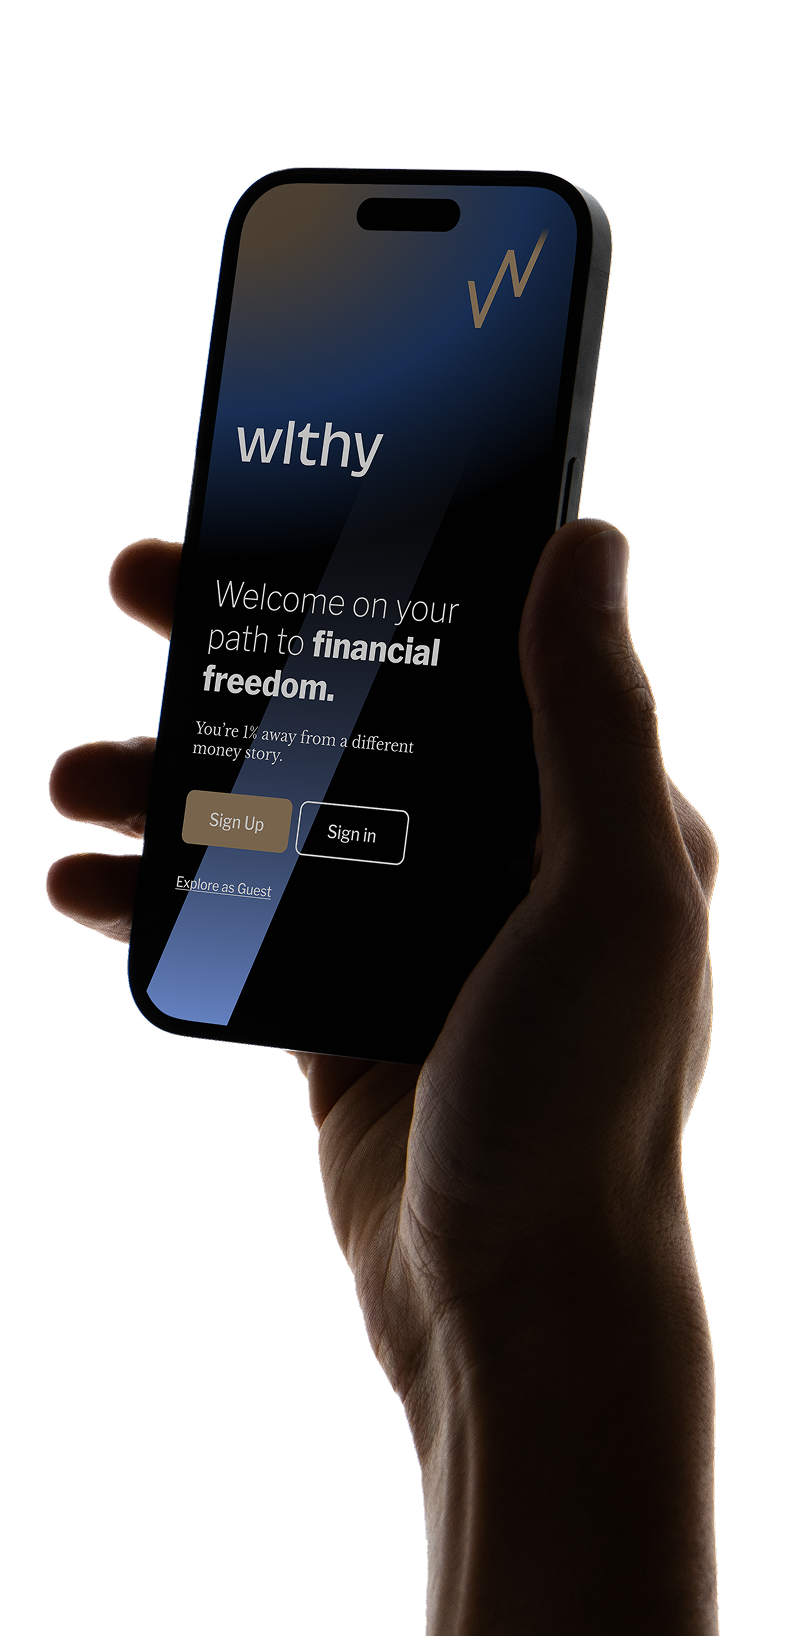
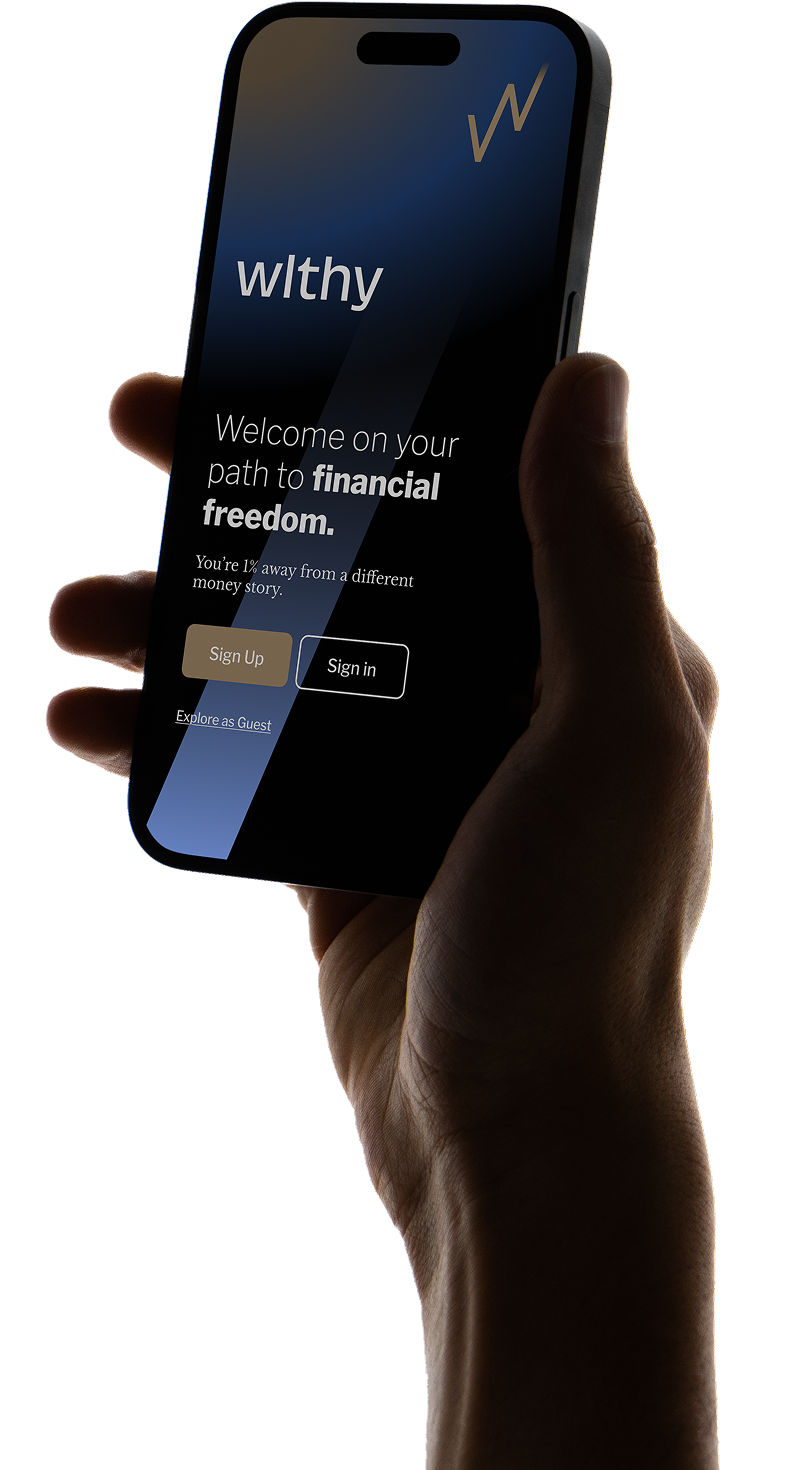
UI Bugs Fixed

Changed region(s): [[0.0611, 0.0, 0.916, 0.9184]]

diff --git a/lib/sections/hero_section.dart b/lib/sections/hero_section.dart
@@ -52,12 +52,15 @@ class HeroSection extends StatelessWidget {
                 ),
                 // Phone bleeds off the top/bottom (clipped by the band).
                 Spacer(),
-                SizedBox(
-                  height: 650,
-                  child: Image.asset(
-                    AppImages.screen1,
-                    fit: BoxFit.fitHeight,
-                    filterQuality: FilterQuality.high,
+                Padding(
+                  padding: const EdgeInsets.only(top: 16.0),
+                  child: SizedBox(
+                    height: 650,
+                    child: Image.asset(
+                      AppImages.screen1,
+                      fit: BoxFit.fitHeight,
+                      filterQuality: FilterQuality.high,
+                    ),
                   ),
                 ),
                 ],
@@ -78,10 +81,23 @@ class HeroSection extends StatelessWidget {
           crossAxisAlignment: CrossAxisAlignment.start,
           children: [
             _copy(context),
-            const SizedBox(height: 24),
-            Center(
-              child: Image.asset(AppImages.screen1Mobile,
-                  width: 280, fit: BoxFit.contain),
+            SizedBox(height: 32),
+            Stack(
+              children: [
+                Align(
+                  heightFactor: 1,
+                  alignment: Alignment.topCenter,
+                  child: Image.asset(AppImages.screen1Mobile,
+                      fit: BoxFit.contain),
+                ),
+                    Positioned(
+                      bottom: 22,
+                      left: 0,
+                      right: 50,
+                      child:  WlthyText(HeroContent.finePrint,
+                        style: FigmaText.heroFinePrint( AppColors.white)),
+                    ),
+              ],
             ),
           ],
         ),
@@ -131,9 +147,11 @@ class HeroSection extends StatelessWidget {
                 onTap: () => scrollToSection(SectionKeys.howItWorks)),
           ],
         ),
+        if (context.isDesktop) ...[
         const SizedBox(height: 18),
         WlthyText(HeroContent.finePrint,
             style: FigmaText.heroFinePrint(const Color(0xFF1E1E1E))),
+        ]
       ],
     );
   }

diff --git a/lib/sections/audience_cards_section.dart b/lib/sections/audience_cards_section.dart
@@ -35,10 +35,12 @@ class AudienceCardsSection extends StatelessWidget {
           )
           // Four equal-width cards, all a fixed 180px tall (Figma 242×180).
           : Row(
+            crossAxisAlignment: CrossAxisAlignment.center,
+            mainAxisAlignment: MainAxisAlignment.center,
               children: [
                 for (var i = 0; i < Audience.cards.length; i++) ...[
                   if (i > 0) const SizedBox(width: 10),
-                  Expanded(child: _Card(Audience.cards[i])),
+                  SizedBox(width: 242.5, child: _Card(Audience.cards[i])),
                 ],
               ],
             ),